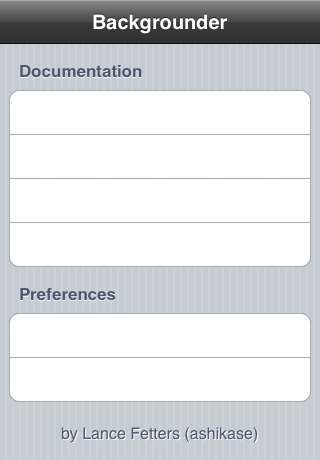
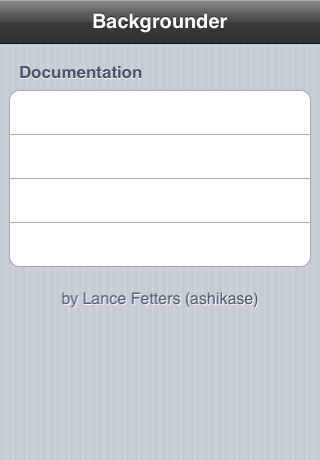
Updated documentation and default image.
git-svn-id: file:///tmp/bg/local_repo/trunk@245 79926bab-e5c8-44ff-bb3f-fbd5546299b2

diff --git a/package/Applications/Backgrounder.app/doc/known_issues.html b/package/Applications/Backgrounder.app/doc/known_issues.html
@@ -22,14 +22,11 @@
             <div>
                 <p><strong>Known issues</strong></p>
                 <hr/>
-                <li>When animations are enabled, SpringBoard uses screenshots
-                of apps to provide smooth animations. If SpringBoard crashes
-                while apps are running, those screenshots do not get removed
-                and will appear at next launch. Exit the app properly to
-                remove the old screenshot.</li>
-                <li>Please visit the project <a
-                    href="http://code.google.com/p/iphone-backgrounder/issues/list">issues
-                    page</a> to view other known issues or to submit a new report.</li>
+                <li>Support for iPhone OS 3.0 is severely broken; currently
+                only basic backgrounding is enabled. There is no time schedule
+                for when the missing features will be restored (if
+                restoration is even possible).
+                </li>
             </div>
         </fieldset>
 
@@ -38,12 +35,7 @@
                 <p><strong>Todo</strong></p>
                 <hr/>
                 <ul>
-                    <li>Add memory-usage information to task list.</li>
-                    <li>Fix remaining status-bar issues.</li>
-                    <li>When using double-tap with simple mode, application should minimize on enable/disable.</li>
-                    <li>Add an icon to the statusbar indicating that the current application has backgrounding enabled.</li>
-                    <li>Allow for events (such as use of accelerometer) while backgrounded.</li>
-                    <li>Consider adding an option to ignore memory warnings.</li>
+                    <li>Restore features currently broken in iPhoneOS 3.0.</li>
                 </ul>
             </div>
         </fieldset>

diff --git a/package/Applications/Backgrounder.app/doc/usage.html b/package/Applications/Backgrounder.app/doc/usage.html
@@ -25,7 +25,7 @@
                     <li>Launch the desired application.</li>
                     <li>Press and hold the Home button (the black hardware button with a white square, located at the bottom of the device).</li>
                     <li>An alert will appear, saying that backgrounding has been enabled.</li>
-                    <li>Release the Home button. Note that if you continue to hold the button down, the application will be forced to quit (the default iPhone OS behavior).</li>
+                    <li>Release the Home button.</li>
                     <li>After releasing the button, the alert will disappear and the application will minimize.</li>
                     <li>The application should now be running in the background.</li>
                 </ol>
